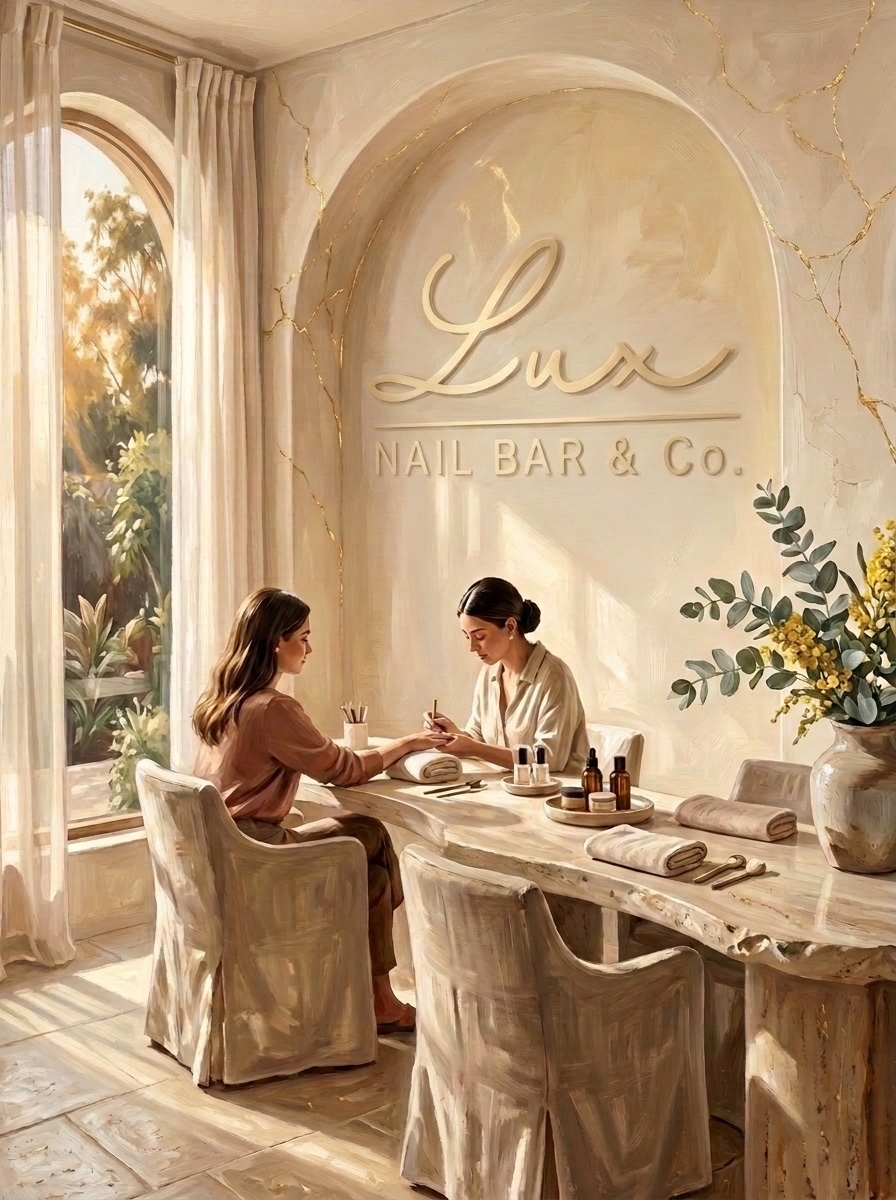
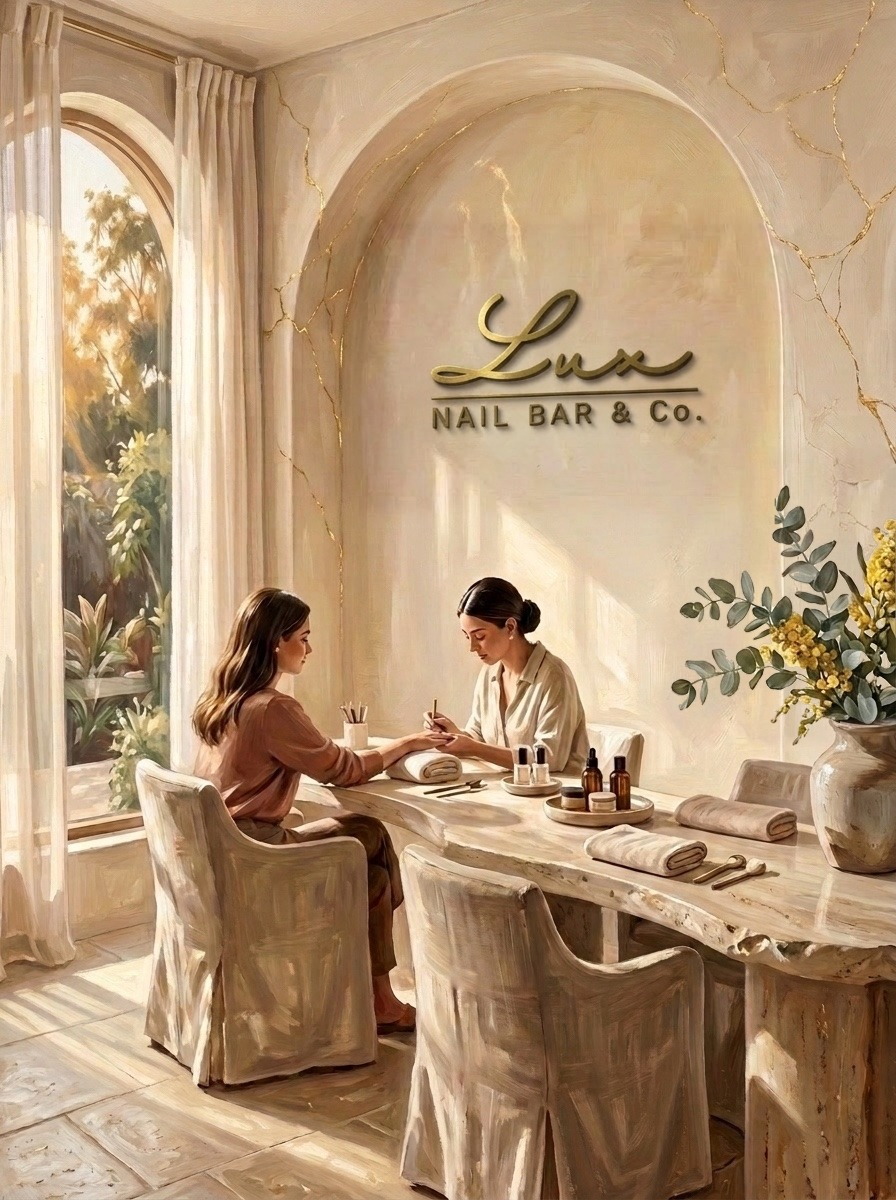
Sync Atelier templates, Before/After slider, Safari arch clip & Hero wall signage

diff --git a/clients/luxnailbarcosouthbank/index.html b/clients/luxnailbarcosouthbank/index.html
@@ -1166,7 +1166,7 @@
   "heroStory": "Structured BIAB overlays, fine-art manicure design, and botanical spa rituals—performed unhurriedly with hospital-grade sterilisation.",
   "parkingNote": "Convenient client parking right near Grey St with effortless ground-level boutique arrival.",
   "images": {
-    "hero": "/assets/client-photo-hero.jpg?v=20261126v2",
+    "hero": "/assets/client-photo-hero.jpg?v=20261126",
     "beforeNail": "https://wynnpages.com.au/assets/atelier/nails/before-natural-nails.jpg?v=20261123hd",
     "afterNail": "https://wynnpages.com.au/assets/atelier/nails/biab-artistry.jpg?v=20261123p1",
     "biabFeature": "https://wynnpages.com.au/assets/atelier/nails/sheer-biab-architecture.jpg?v=20261123p1",
@@ -1550,17 +1550,17 @@
 
       <!-- Right Arched Oil-Painting Frame (5 Cols) -->
       <div id="hero-art-col" class="lg:col-span-5 relative max-w-md mx-auto lg:max-w-none w-full will-change-transform">
-        <div class="hero-frame-unveil arch-oil-frame gold-foil-frame overflow-hidden aspect-[4/5] relative" style="background-color: var(--bg-canvas-alt);">
+        <div class="hero-frame-unveil arch-oil-frame gold-foil-frame overflow-hidden aspect-[9/10] relative" style="background-color: var(--bg-canvas-alt);">
           <div id="hero-canvas-stage" class="w-full h-full relative animate-canvas-breathe will-change-transform" style="border-radius: inherit;">
             <img
               id="hero-oil-img"
-              src="/assets/client-photo-hero.jpg?v=20261126v2"
+              src="/assets/client-photo-hero.jpg?v=20261126"
               alt="Lux Nail Bar &amp; Co. sunlit artisanal nail sanctuary interior oil painting with 24k gold-leaf wall signage"
               fetchpriority="high"
-              width="896"
-              height="1200"
+              width="1024"
+              height="571"
               onerror="this.onerror=null;this.src='https://wynnpages.com.au/assets/atelier/nails/hero-sanctuary.jpg';"
-              style="border-radius: inherit; object-position: 50% 45%;"
+              style="border-radius: inherit; object-position: 52% 50%;"
               class="w-full h-full object-cover block"
             >
           </div>
@@ -2664,10 +2664,67 @@
       setText('hero-rating', cfg.googleRating);
       setText('hero-review-count', cfg.reviewCount);
 
+      const livingCfg = cfg.livingHero || {};
+      const staticHeroParam = qsParams.get('static-hero') === '1';
+      const useLivingHero = !forceVault && !staticHeroParam && livingCfg.enabled === true && livingCfg.cleanBg && livingCfg.flowersLayer;
+      const heroStage = document.getElementById('hero-canvas-stage');
+      const heroSceneLock = document.getElementById('hero-scene-lock');
+      const heroFlowersImg = document.getElementById('hero-flowers-img');
+      const heroMotionToggle = document.getElementById('btn-hero-motion-toggle');
+      const heroMotionIcon = document.getElementById('hero-motion-icon');
+
       if (resolvedImages) {
         const heroImg = document.getElementById('hero-oil-img');
-        if (heroImg && resolvedImages.hero && heroImg.getAttribute('src') !== resolvedImages.hero) {
-          heroImg.src = resolvedImages.hero;
+        if (useLivingHero) {
+          if (heroImg && heroImg.getAttribute('src') !== livingCfg.cleanBg) {
+            heroImg.src = livingCfg.cleanBg;
+          }
+          if (heroFlowersImg && heroFlowersImg.getAttribute('src') !== livingCfg.flowersLayer) {
+            heroFlowersImg.src = livingCfg.flowersLayer;
+          }
+          if (heroMotionToggle) {
+            if (prefersReducedMotion) {
+              heroMotionToggle.style.display = 'none';
+            } else {
+              heroMotionToggle.addEventListener('click', () => {
+                if (!heroStage) return;
+                const nextPaused = heroStage.getAttribute('data-motion-paused') !== 'true';
+                if (nextPaused) {
+                  heroStage.setAttribute('data-motion-paused', 'true');
+                  heroMotionToggle.setAttribute('aria-label', 'Play ambient painting motion');
+                  heroMotionToggle.setAttribute('title', 'Play ambient painting motion');
+                  if (heroMotionIcon) {
+                    heroMotionIcon.innerHTML = '<path d="M5 3.5l8 4.5-8 4.5V3.5z"></path>';
+                  }
+                } else {
+                  heroStage.removeAttribute('data-motion-paused');
+                  heroMotionToggle.setAttribute('aria-label', 'Pause ambient painting motion');
+                  heroMotionToggle.setAttribute('title', 'Pause ambient painting motion');
+                  if (heroMotionIcon) {
+                    heroMotionIcon.innerHTML = '<rect x="4" y="3" width="2.8" height="10" rx="0.9"></rect><rect x="9.2" y="3" width="2.8" height="10" rx="0.9"></rect>';
+                  }
+                }
+              });
+            }
+          }
+        } else {
+          document.querySelectorAll('.hero-living-layer').forEach((el) => {
+            el.style.display = 'none';
+          });
+          if (heroMotionToggle) heroMotionToggle.style.display = 'none';
+          const fallbackSrc = forceVault
+            ? activeVault.hero
+            : (livingCfg.staticFallback || resolvedImages.hero);
+          if (heroImg && fallbackSrc && heroImg.getAttribute('src') !== fallbackSrc) {
+            heroImg.src = fallbackSrc;
+          }
+          if (forceVault && heroSceneLock && heroImg) {
+            heroSceneLock.style.inset = '0';
+            heroSceneLock.style.top = '0';
+            heroSceneLock.style.height = '100%';
+            heroSceneLock.style.aspectRatio = 'auto';
+            heroImg.classList.add('object-cover');
+          }
         }
         const biabImg = document.getElementById('feature-biab-img');
         if (biabImg && resolvedImages.biabFeature) biabImg.src = resolvedImages.biabFeature;

diff --git a/clients/luxnailbarcosouthbank/ATELIER_MANIFEST.md b/clients/luxnailbarcosouthbank/ATELIER_MANIFEST.md
@@ -19,7 +19,13 @@
 ## Bespoke Brand Identity & Gold-Leaf Assets
 - **Gold-Leaf Calligraphic Logo (`assets/lux-logo.svg`):** Custom 24K gold-leaf 3D vector redraw of the calligraphic `"Lux"` script from the salon's storefront sign, harmonized inside the pearl-gold medallion (`#brand-logo-slot` in Header & Reserve Card seal in `#visit`).
 - **Gold-Leaf `"L"` Favicon (`favicon.svg`, `favicon.png`):** Embossed Palette `01` wax seal bearing the custom 24K gold-leaf calligraphic `"L"` matching the storefront script.
-- **Bespoke Branded Hero Oil Painting (`assets/client-photo-hero.jpg`):** Custom Palette `01` high-resolution vertical portrait oil painting (`896×1200` JPEG, generated from the salon's 3D brushed-gold storefront logo, refined v2 tonal brushed Champagne Gold relief with airy warm limestone shadows and morning sunlight grazing the plaster alcove) framed inside the signature `aspect-[4/5]` arched gold-foil canvas (`object-position: 50% 45%`).
+- **Bespoke 70% Weathered-Brass Hero Oil Painting & Living Layers (`assets/client-photo-hero-clean.jpg`, `assets/client-photo-hero-flowers.webp`, `assets/client-photo-hero.jpg`):**
+  - Custom Palette `01` `896×1200` portrait featuring `"Lux / NAIL BAR & Co."` scaled down to **70%** (`269px` width inside the recessed arch) in rich antique brushed brass with natural surface grain/patina and realistic wall standoff shadows.
+  - **Living Oil Painting Mode (`window.ATELIER_CONFIG.livingHero.enabled: true`):** Renders the clean plaster/vase plate (`client-photo-hero-clean.jpg`) underneath GPU-composited sunlit arched-window light drift + floating golden motes and the transparent difference-matted eucalyptus & wattle bouquet (`client-photo-hero-flowers.webp`, `~23 KB`) swaying gently around the vase rim (`85.22% 91.88%`), complete with an accessible Pause/Play toggle (`#btn-hero-motion-toggle`) and `prefers-reduced-motion` support.
+  - **Instant Rollback Paths:**
+    1. Live A/B Static View: append `?static-hero=1` to URL (`https://luxnailbarcosouthbank.wynnpages.com.au/?static-hero=1`).
+    2. Disable Living Motion cleanly: set `window.ATELIER_CONFIG.livingHero.enabled = false` in `index.html` (reverts instantly to the matching static 70%-logo painting `assets/client-photo-hero.jpg`).
+    3. Full Git Rollback to pre-Living v2 snapshot: `git checkout 2801758 -- clients/luxnailbarcosouthbank/`.
 
 ## Antigravity Editing Rules
 1. Always preserve the **WynnPages Digital Atelier** standards in `clients/GEMINI.md` (oil-painting + gold-leaf aesthetic, zero emojis, italic accent heading signature).
